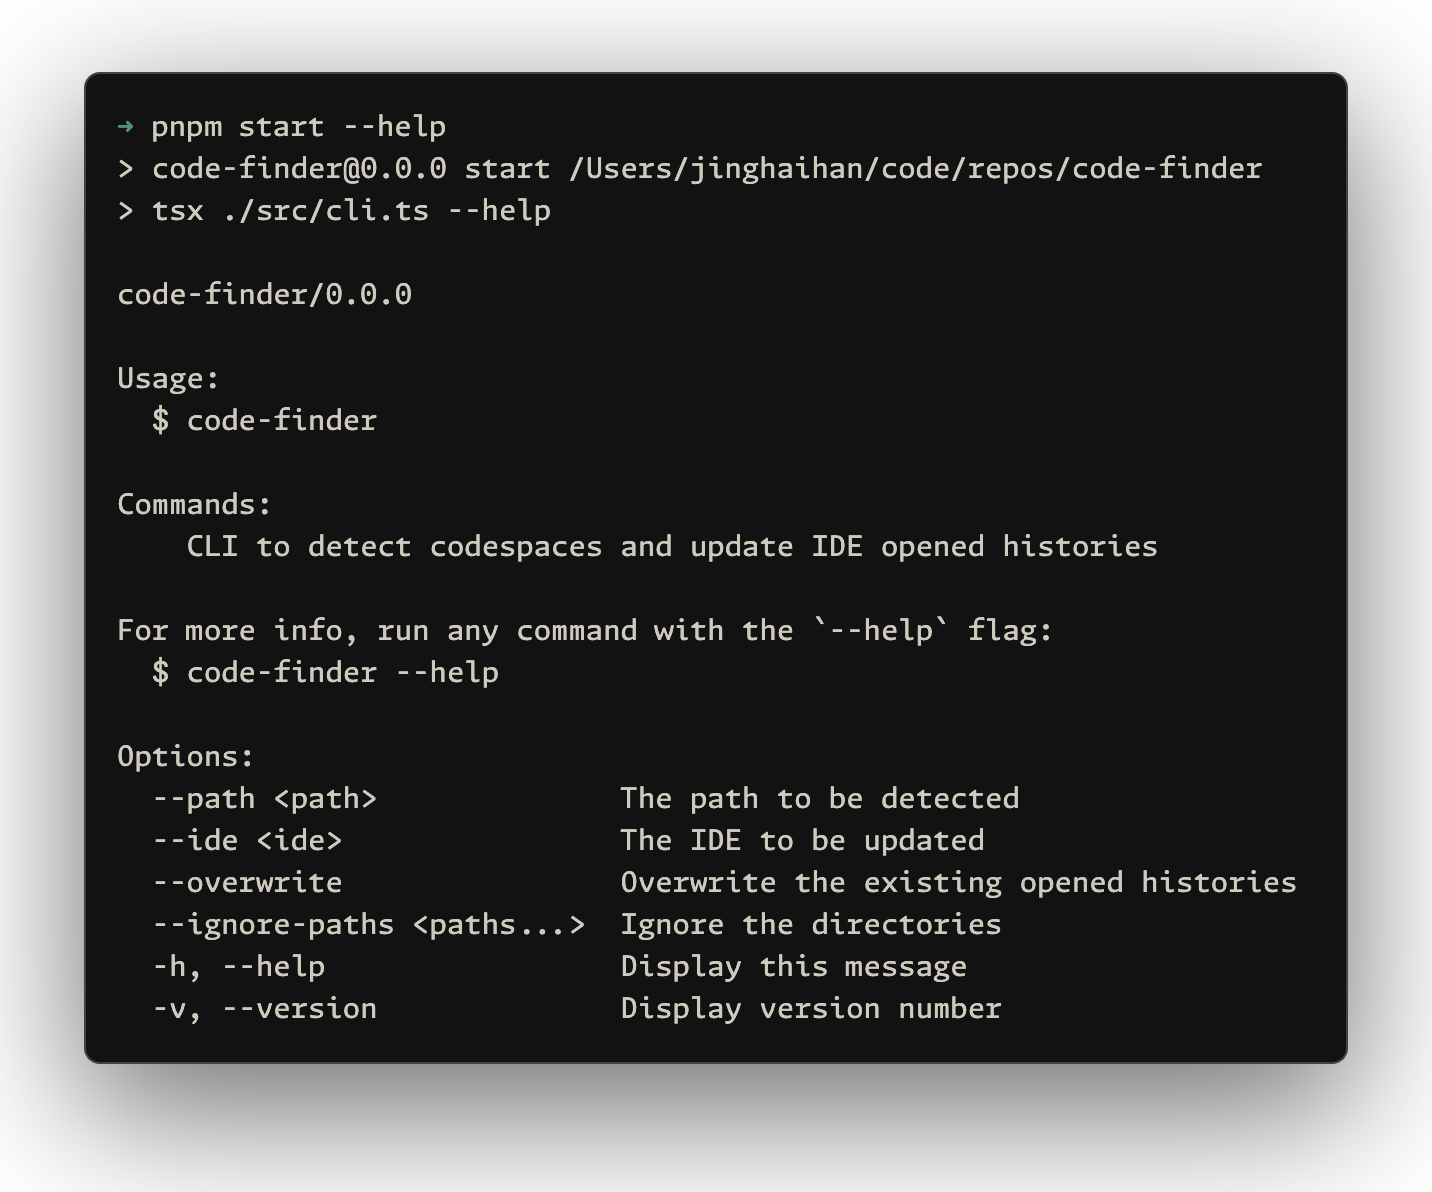
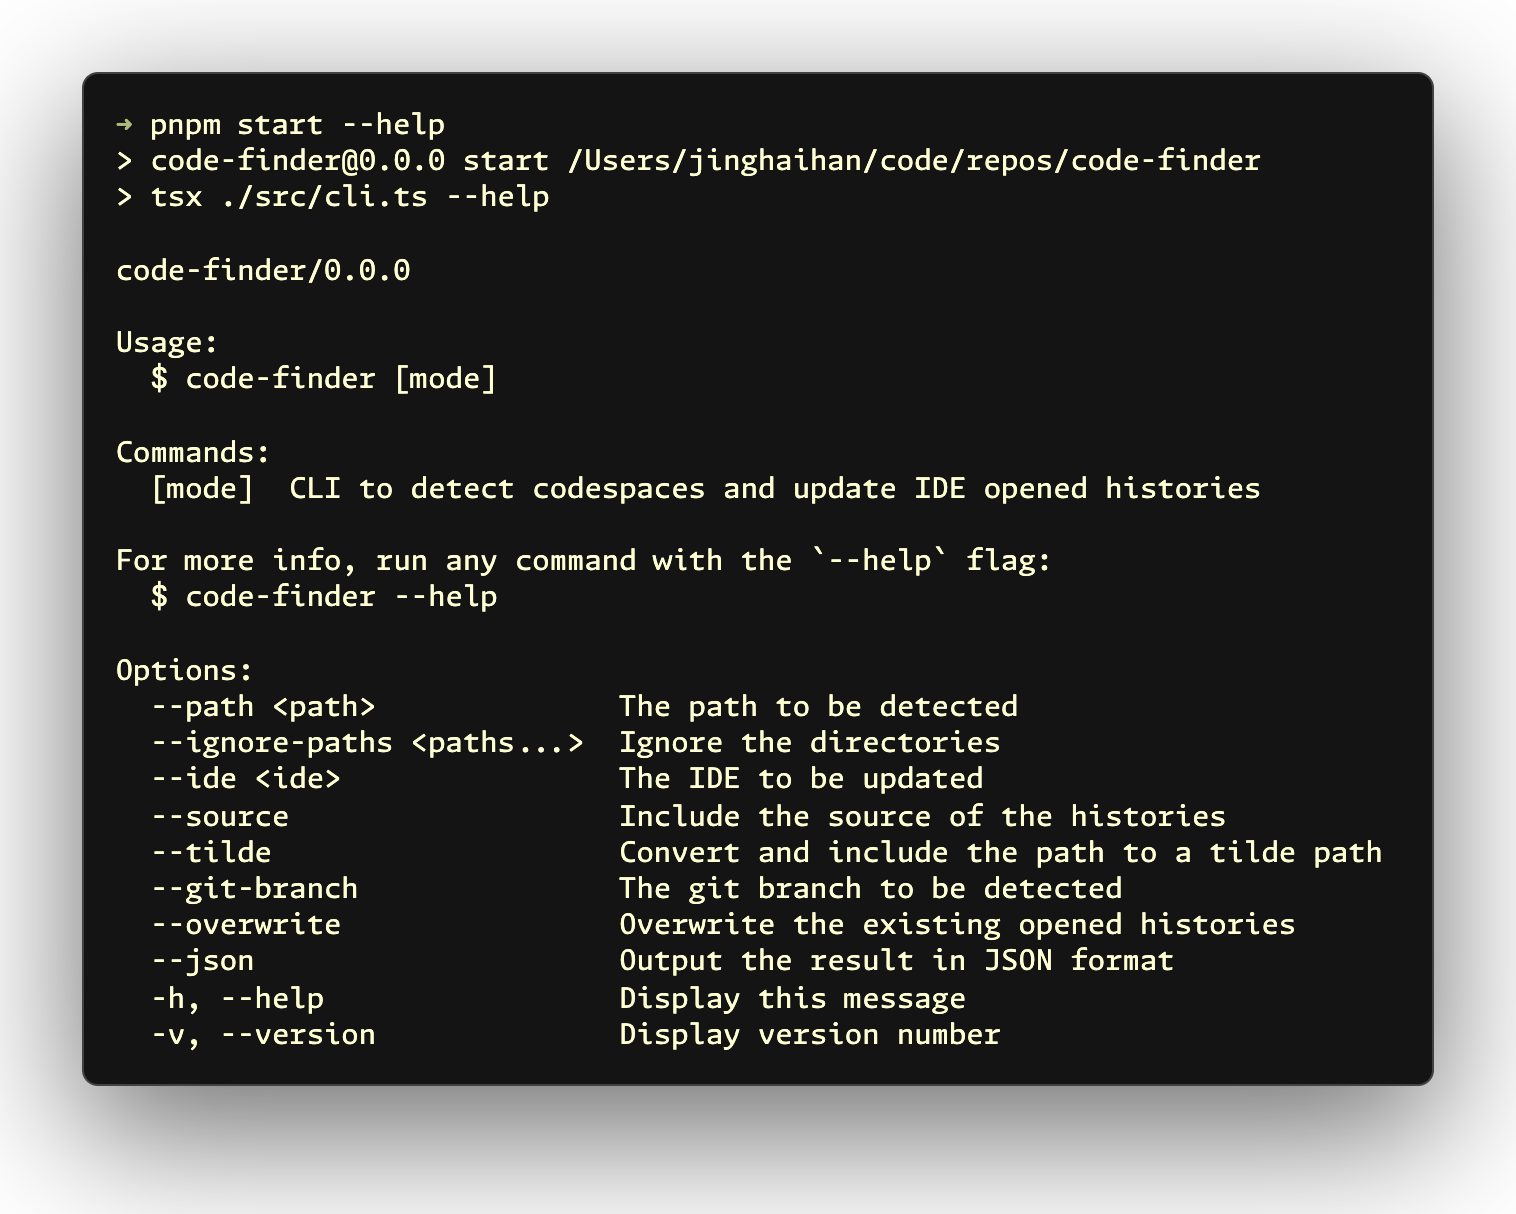
feat: support detect code source

Changed region(s): [[0.0307, 0.0621, 0.9525, 0.9002], [0.676, 0.4966, 0.7374, 0.5587], [0.3073, 0.776, 0.3687, 0.807]]

diff --git a/src/cli.ts b/src/cli.ts
@@ -1,5 +1,5 @@
 import type { CAC } from 'cac'
-import type { CommandOptions, HistoryEntry, RangeMode } from './types'
+import type { CommandOptions, EntrySource, HistoryEntry, RangeMode } from './types'
 import process from 'node:process'
 import * as p from '@clack/prompts'
 import c from 'ansis'
@@ -19,10 +19,11 @@ try {
   cli
     .command('[mode]', 'CLI to detect codespaces and update IDE opened histories')
     .option('--path <path>', 'The path to be detected')
-    .option('--ide <ide>', 'The IDE to be updated')
     .option('--ignore-paths <paths...>', 'Ignore the directories')
+    .option('--ide <ide>', 'The IDE to be updated')
+    .option('--source', 'Include the source of the histories')
+    .option('--tilde', 'Convert and include the path to a tilde path')
     .option('--git-branch', 'The git branch to be detected')
-    .option('--tilde', 'Convert the path to a tilde path')
     .option('--overwrite', 'Overwrite the existing opened histories')
     .option('--json', 'Output the result in JSON format')
     .action(async (mode: RangeMode, options: CommandOptions) => {
@@ -38,23 +39,46 @@ try {
       await ensureSqlite3()
 
       const config = resolveConfig(options)
-      const codespaces = config.path ? await detectCodespaces(config.path, config.ignorePaths) : []
+      const entriesRecords = new Map<string, EntrySource[]>()
 
       const traverse = async (data: HistoryEntry[]) => {
-        if (!config.tilde && !config.gitBranch)
+        if (!config.tilde && !config.gitBranch && !config.source)
           return
+
+        const spinner = p.spinner()
+        spinner.start('Traversing data')
 
         for (const entry of data) {
           if (entry.folderUri) {
             const branch = await getGitBranch(entry.folderUri)
             if (branch)
-              entry.gitBranch = branch
+              entry.branch = branch
           }
-          entry.path = tildify(normalizePath(entry.folderUri || entry.fileUri || ''))
+
+          const uri = (entry.folderUri || entry.fileUri)!
+          if (config.path)
+            entry.path = tildify(normalizePath(uri))
+          if (config.source)
+            entry.source = entriesRecords.get(uri) || []
         }
+
+        spinner.stop('Traversing data completed')
       }
 
-      const interceptor = () => {
+      const recordEntries = (entries: HistoryEntry[], source: EntrySource) => {
+        entries.forEach((entry) => {
+          const uri = (entry.folderUri || entry.fileUri)!
+          if (entriesRecords.has(uri))
+            entriesRecords.get(uri)?.push(source)
+          else
+            entriesRecords.set(uri, [source])
+        })
+      }
+
+      const codespaces = config.path ? await detectCodespaces(config.path, config.ignorePaths) : []
+      recordEntries(codespaces, 'Codespace')
+
+      const codespacesInterceptor = () => {
         if (!codespaces.length) {
           p.outro(c.yellow`No codespaces found`)
           process.exit(0)
@@ -63,7 +87,7 @@ try {
 
       switch (config.mode) {
         case 'update':{
-          interceptor()
+          codespacesInterceptor()
           for (const ide of config.ide) {
             if (CODE_NAME_CHOICES.includes(ide))
               await vscode.update(ide, codespaces, config.overwrite)
@@ -71,18 +95,21 @@ try {
           break
         }
         case 'detect': {
-          interceptor()
+          codespacesInterceptor()
           await traverse(codespaces)
           outputHistories(codespaces, config.json)
           break
         }
         case 'combine': {
           const entries: HistoryEntry[][] = [codespaces]
+
           for (const ide of config.ide) {
             if (CODE_NAME_CHOICES.includes(ide)) {
               const data = await vscode.read(ide)
-              if (data)
+              if (data) {
                 entries.push(data.entries)
+                recordEntries(data.entries, ide)
+              }
             }
           }
 

diff --git a/src/constants.ts b/src/constants.ts
@@ -1,16 +1,16 @@
 import type { CommandOptions } from './types'
-import process from 'node:process'
 import pkgJson from '../package.json'
 
 export const NAME = pkgJson.name
-export const VERSION = process.env.NODE_ENV === 'production' ? pkgJson.version : '0.0.0'
+export const VERSION = pkgJson.version
 
 export const MODE_CHOICES = ['update', 'detect', 'combine'] as const
 
 export const DEFAULT_OPTIONS: Partial<CommandOptions> = {
   mode: 'update',
-  overwrite: true,
   ignorePaths: [],
+  overwrite: true,
+  source: false,
   tilde: false,
   gitBranch: false,
   json: false,

diff --git a/src/types.ts b/src/types.ts
@@ -9,8 +9,9 @@ export type EditorName = keyof typeof EDITOR_NAME_MAP
 export interface CommandOptions {
   mode?: RangeMode
   path?: string
-  ide?: CodeName[]
   ignorePaths?: string | string[]
+  ide?: CodeName[]
+  source?: boolean
   tilde?: boolean
   gitBranch?: boolean
   overwrite?: boolean
@@ -28,6 +29,9 @@ export interface History {
 export interface HistoryEntry {
   folderUri?: string
   fileUri?: string
-  gitBranch?: string
   path?: string
+  source?: EntrySource[]
+  branch?: string
 }
+
+export type EntrySource = CodeName | 'Codespace'

diff --git a/src/format.ts b/src/format.ts
@@ -14,6 +14,10 @@ export function outputHistories(data: HistoryEntry[], json: boolean = false) {
     console.log(JSON_MARKER)
   }
   else {
-    p.note(data.map(i => `- ${i.folderUri}${i.gitBranch ? ` (${c.reset(c.yellow(i.gitBranch))})` : ''}`).join('\n'))
+    const lines = data.map((i) => {
+      const path = i.path || i.folderUri || i.fileUri
+      return `- ${path}${i.branch ? c.reset` (${c.green(i.branch)})` : ''}`
+    })
+    p.note(lines.join('\n'))
   }
 }

diff --git a/src/utils.ts b/src/utils.ts
@@ -12,8 +12,14 @@ export function capitalize(str: string): string {
 }
 
 export function normalizePath(path: string) {
-  if (path.startsWith('file://'))
-    return fileURLToPath(path)
+  if (path.startsWith('file://')) {
+    try {
+      return fileURLToPath(path)
+    }
+    catch {
+      return path
+    }
+  }
   return path
 }
 

diff --git a/README.md b/README.md
@@ -8,18 +8,35 @@
 CLI to detect codespaces and update IDE opened histories.
 
 <p align='center'>
-<img src='./assets/help.png' width='600' />
+<img src='./assets/update.gif' width='600' />
 </p>
 
 ## Usage
 
 ```sh
-npx code-finder --path <path> --ide <ide> [--overwrite]
+npx code-finder [mode] [options]
 ```
 
-- `--path <path>` - The directory path to scan for codespaces (required)
-- `--ide <ide>` - The IDE to update history for (optional, can be used multiple times, defaults to VSCode and its forks)
-- `--overwrite` - Overwrite existing opened histories (optional, defaults to true)
+<p align='center'>
+<img src='./assets/help.png' />
+</p>
+
+### Modes
+
+- `update` - Update IDE opened histories with detected codespaces
+- `detect` - Detect and display codespaces without updating IDE histories
+- `combine` - Combine detected codespaces with existing IDE histories
+
+### Options
+
+- `--path <path>` - The directory path to scan for codespaces
+- `--ignore-paths <paths...>` - Ignore the specified directories during detection
+- `--ide <ide>` - The IDE to update history for (can be used multiple times, defaults to VSCode and its forks)
+- `--source` - Include the source of the histories in the output
+- `--tilde` - Convert and include the path to a tilde path format
+- `--git-branch` - Detect and include git branch information
+- `--overwrite` - Overwrite existing opened histories (defaults to true)
+- `--json` - Output the result in JSON format
 
 ## License
 
